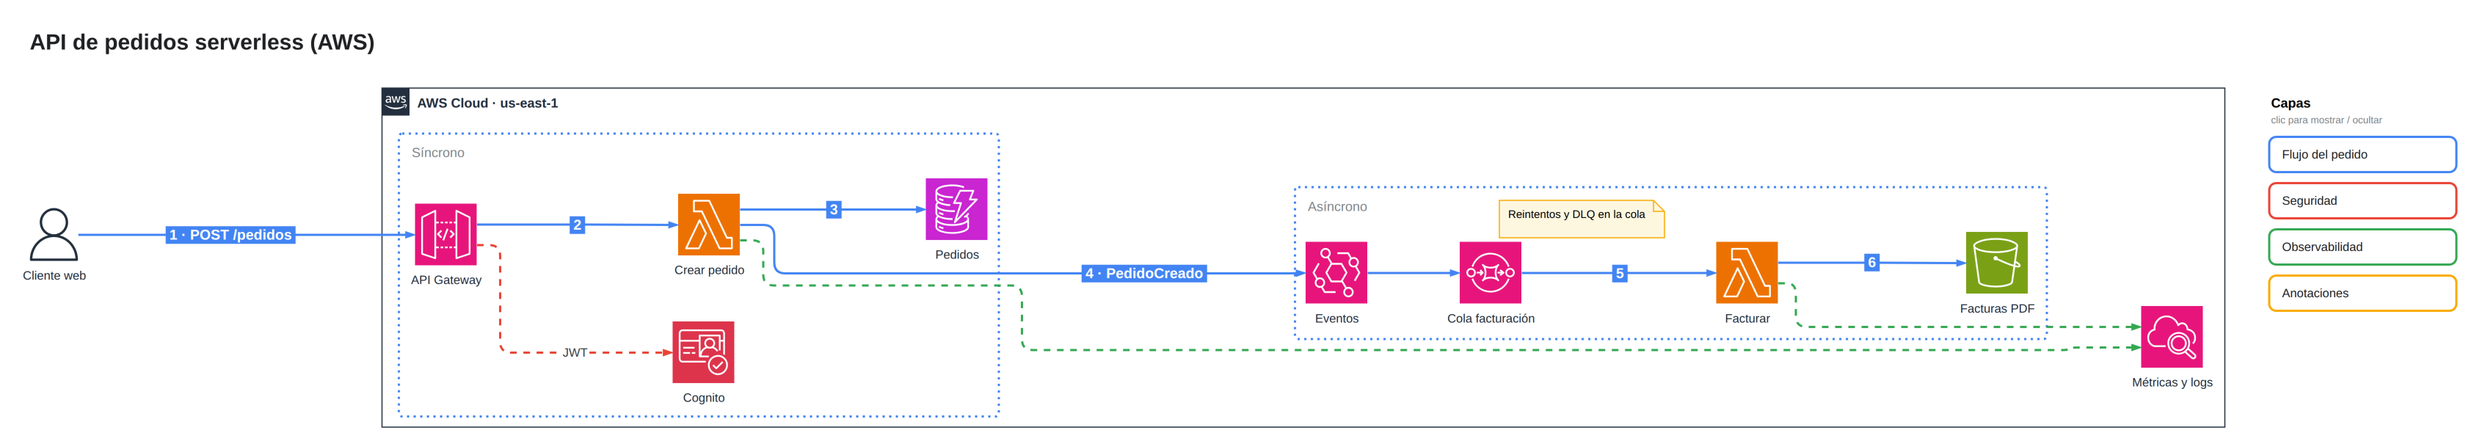
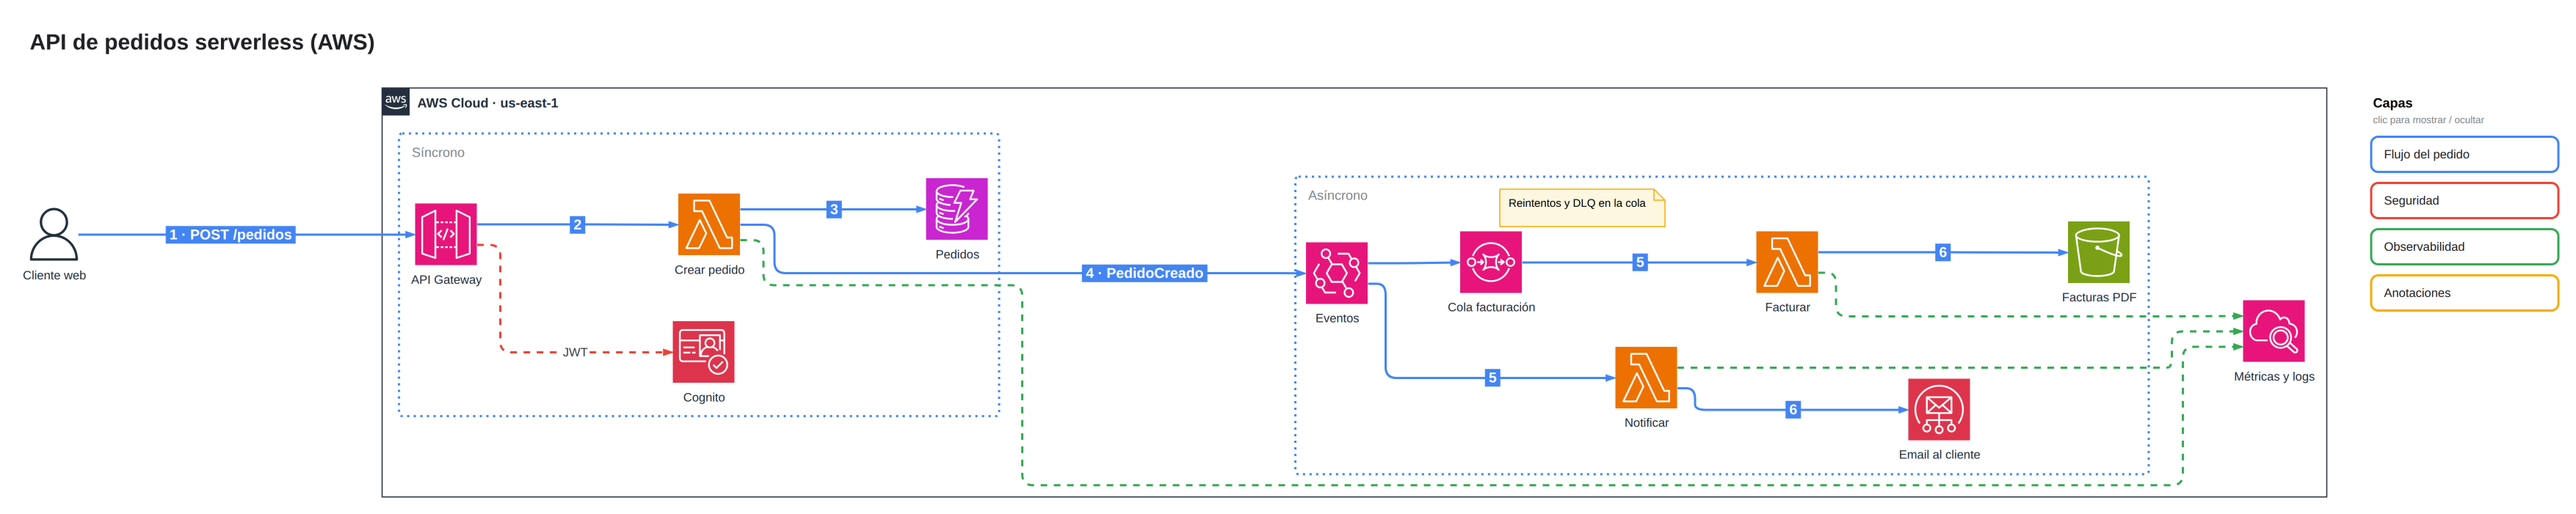
Galería regenerada [skip ci]

diff --git a/docs/galeria/README.md b/docs/galeria/README.md
@@ -5,7 +5,7 @@ el workflow **galería** la regenera.
 
 | Ejemplo | Modo | Nodos | Revisión | Abrir |
 |---|---|---|---|---|
-| [API de pedidos serverless (AWS)](../../examples/aws-serverless.json) | spec | 10 | 80 · proporcion_extrema | [draw.io](https://app.diagrams.net/#Uhttps://raw.githubusercontent.com/Leonsang/AdvanceDrawIO/main/docs/galeria/aws-serverless.drawio) |
+| [API de pedidos serverless (AWS)](../../examples/aws-serverless.json) | spec | 12 | 80 · proporcion_extrema | [draw.io](https://app.diagrams.net/#Uhttps://raw.githubusercontent.com/Leonsang/AdvanceDrawIO/main/docs/galeria/aws-serverless.drawio) |
 | [Cómo funciona AdvanceDrawIO](../../examples/como-funciona.json) | spec | 10 | 100 · sin problemas | [draw.io](https://app.diagrams.net/#Uhttps://raw.githubusercontent.com/Leonsang/AdvanceDrawIO/main/docs/galeria/como-funciona.drawio) |
 | [Contexto del sistema de recaudo (C4 nivel 1)](../../examples/contexto-c4.json) | spec | 6 | 100 · sin problemas | [draw.io](https://app.diagrams.net/#Uhttps://raw.githubusercontent.com/Leonsang/AdvanceDrawIO/main/docs/galeria/contexto-c4.drawio) |
 | [Asistente multiagente de atención](../../examples/multiagente-gcp.json) | spec | 10 | 100 · sin problemas | [draw.io](https://app.diagrams.net/#Uhttps://raw.githubusercontent.com/Leonsang/AdvanceDrawIO/main/docs/galeria/multiagente-gcp.drawio) |
